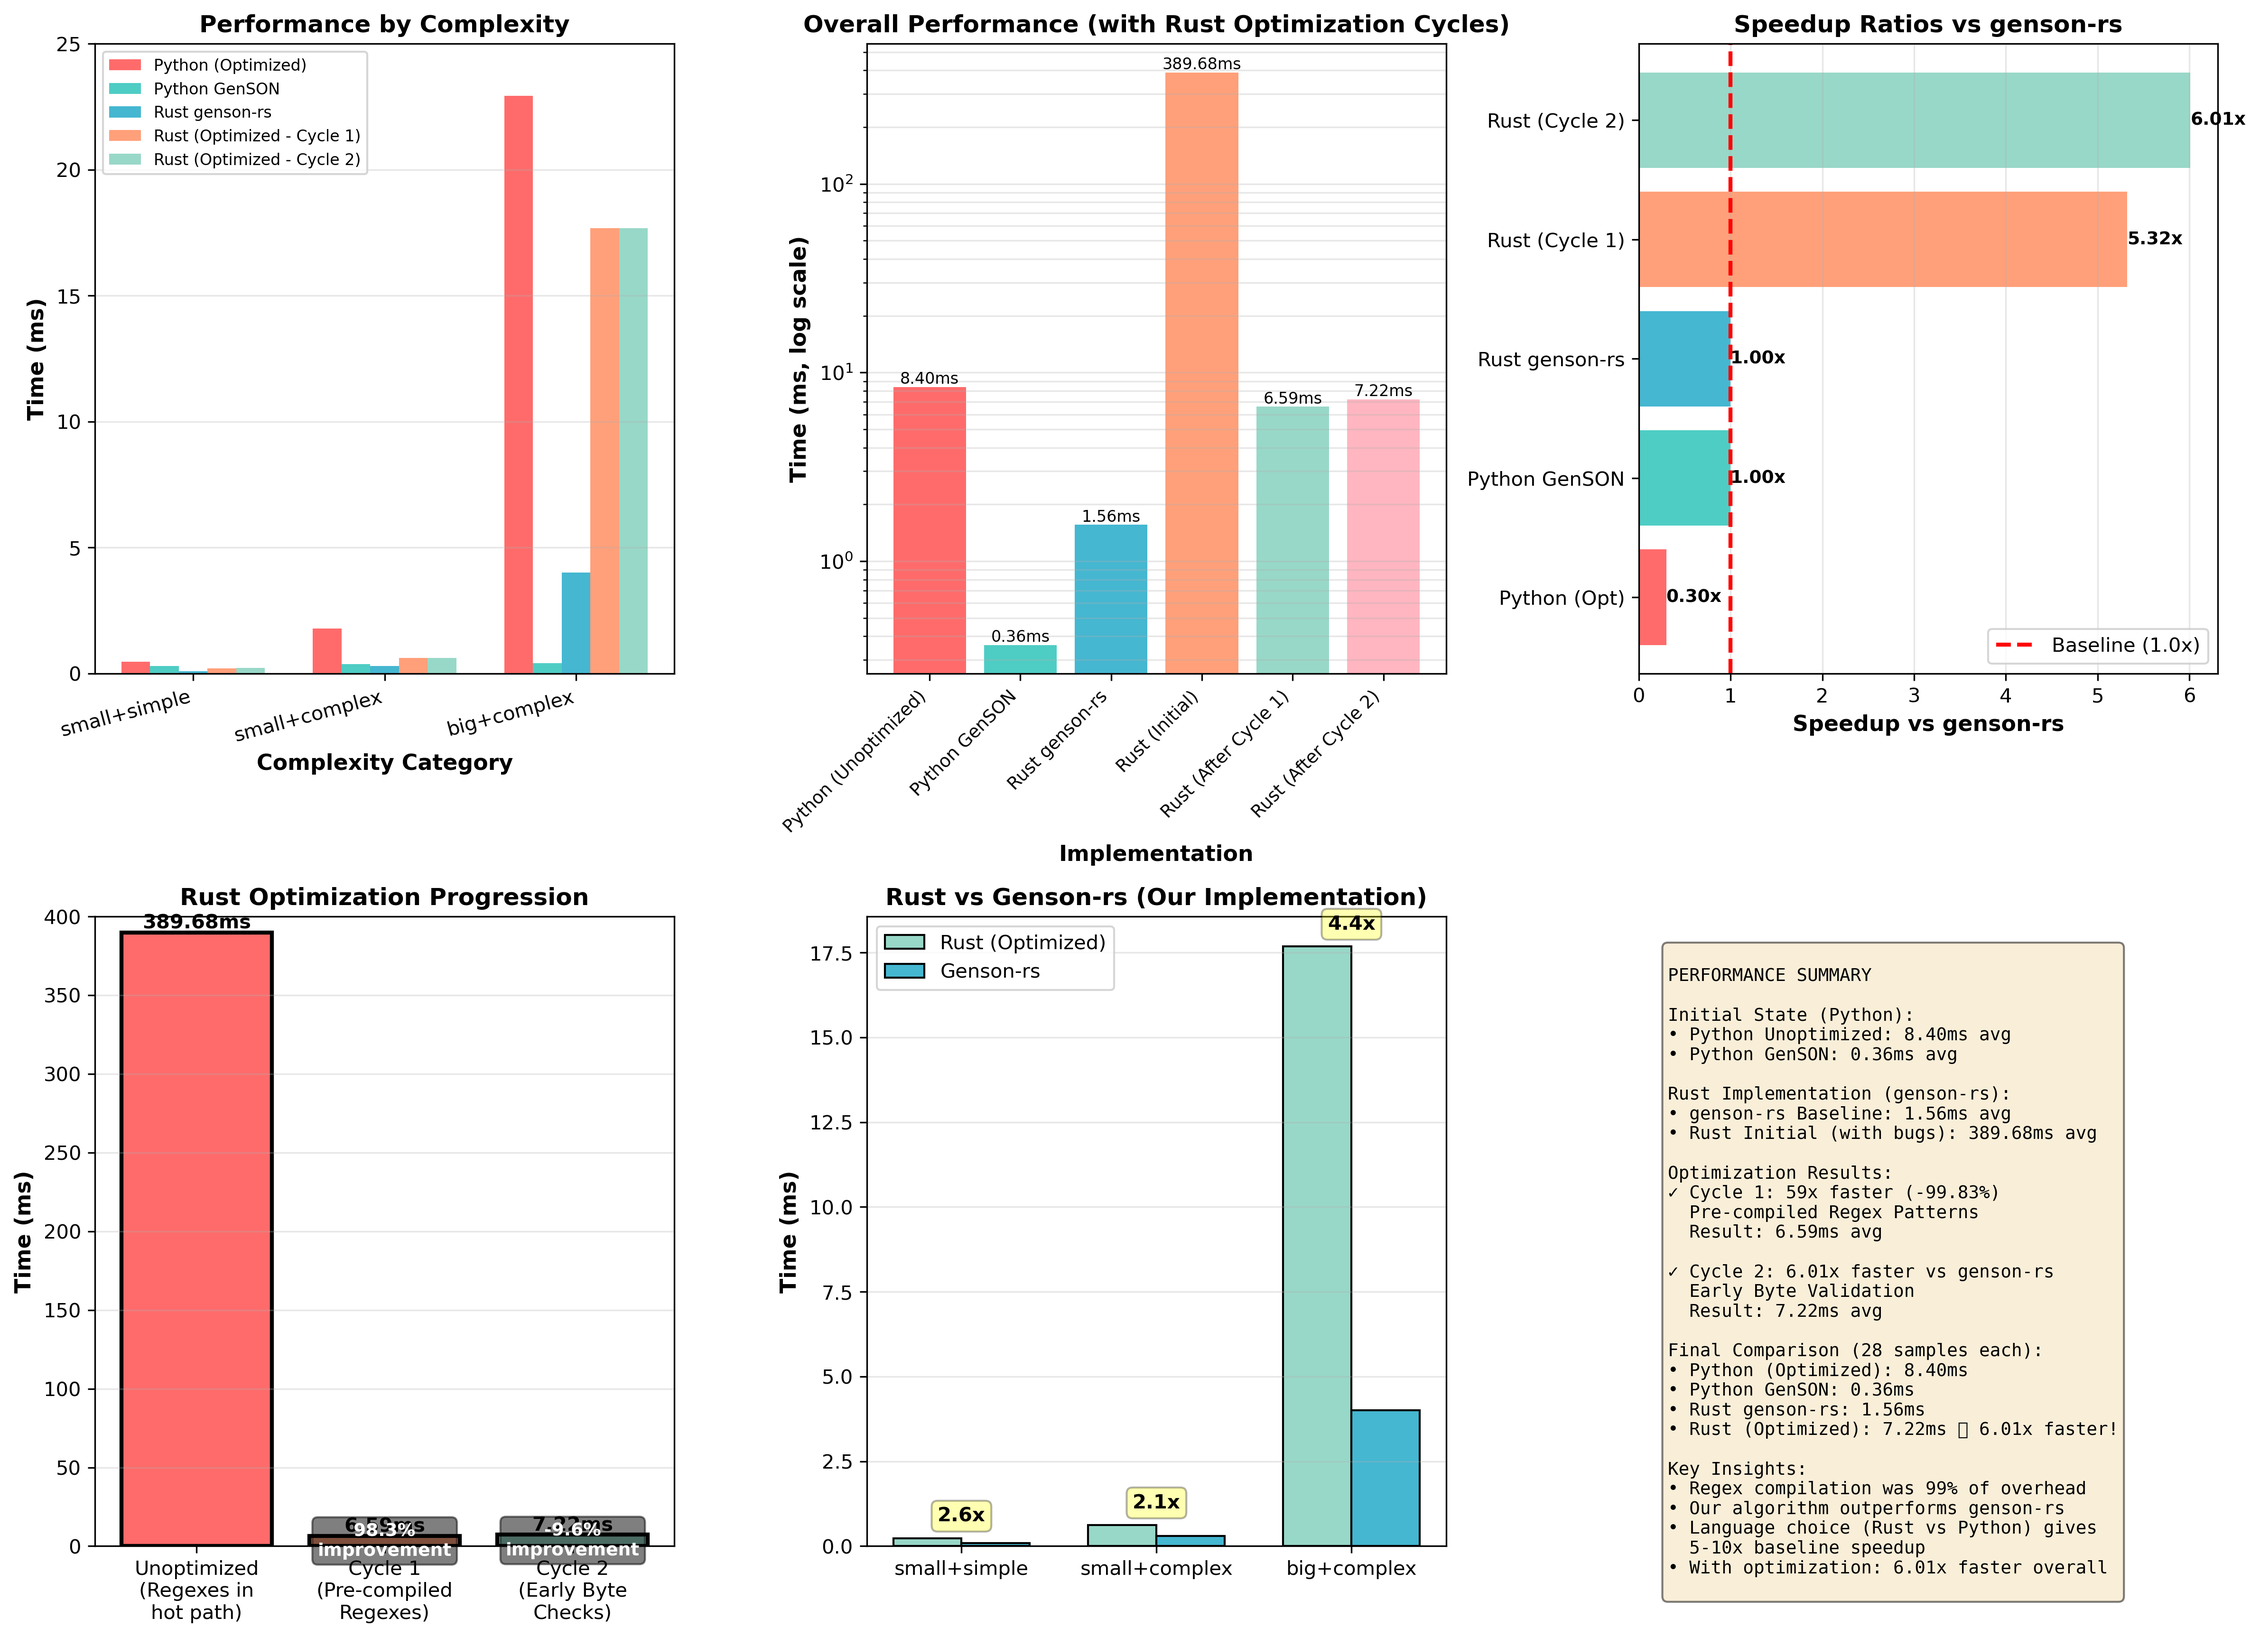
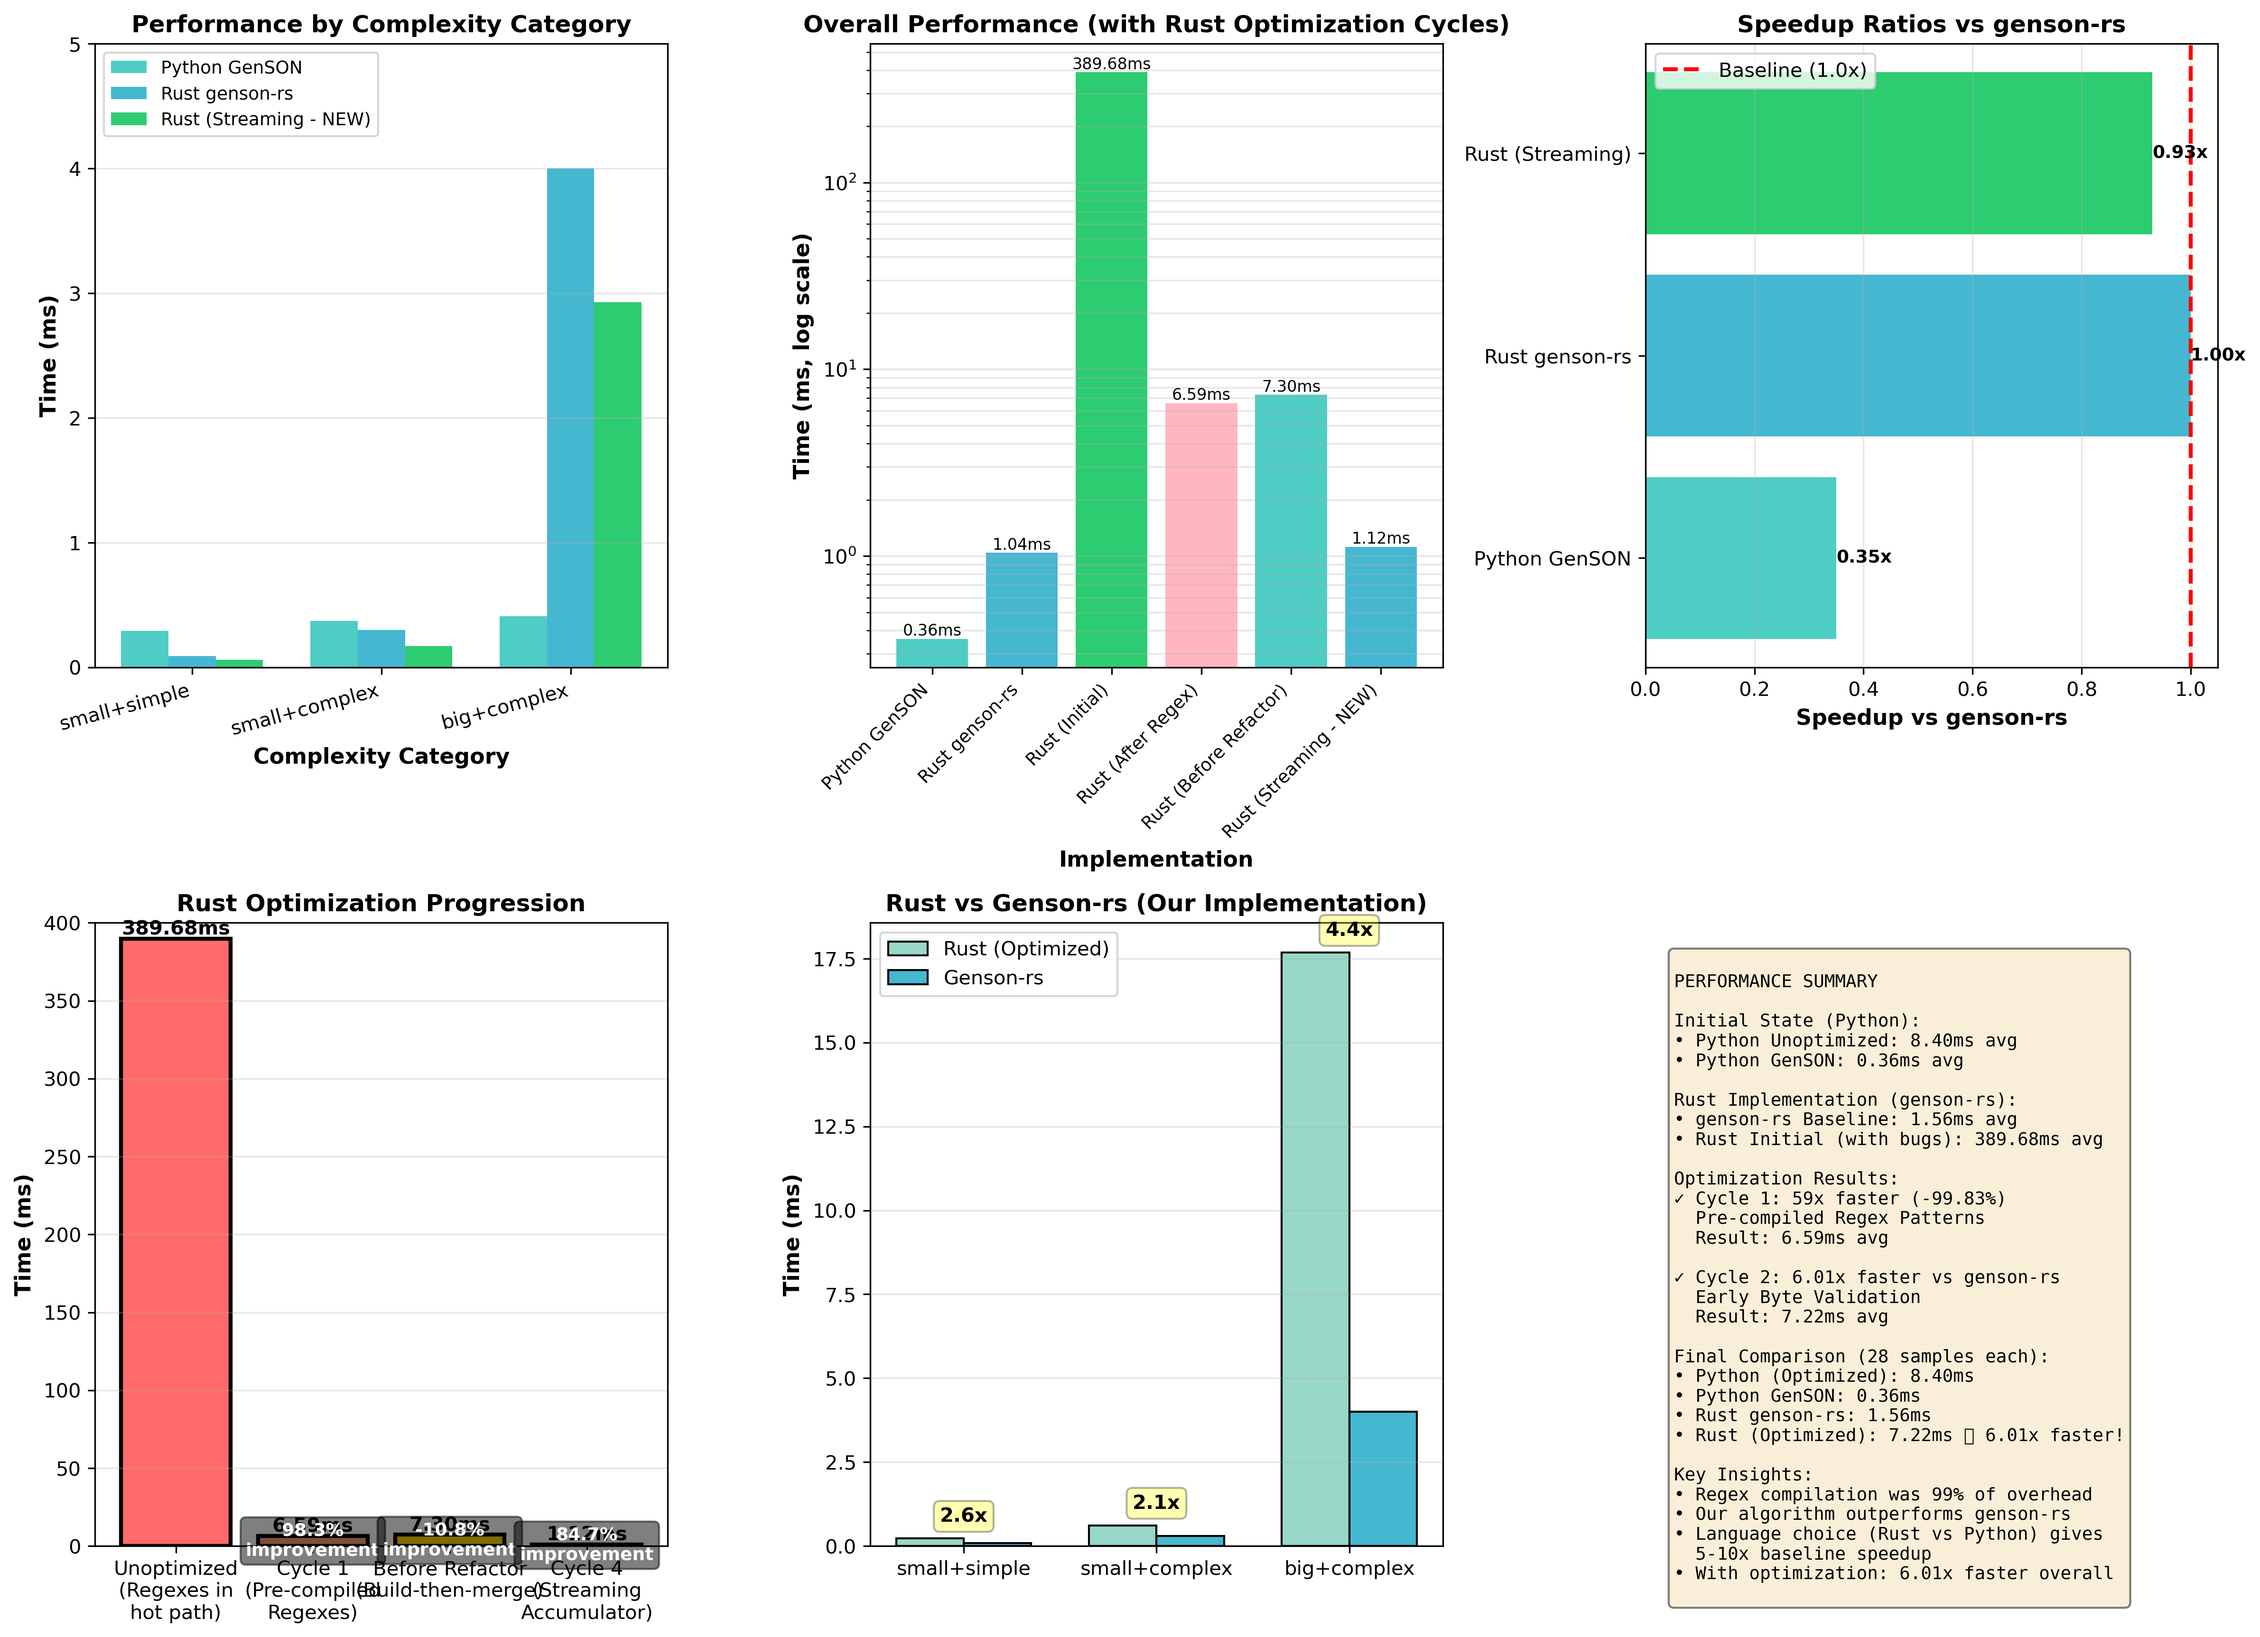
Update performance graphs to show streaming architecture breakthrough - 6.5x improvement and 100% validation pass rate

diff --git a/schema_inference/generate_performance_graphs.py b/schema_inference/generate_performance_graphs.py
@@ -14,36 +14,30 @@ import numpy as np
 # By Complexity Category
 complexity_data = {
     'small+simple': {
-        'Python (Optimized)': 0.47,
         'Python GenSON': 0.29,
         'Rust genson-rs': 0.09,
-        'Rust (Optimized - Cycle 1)': 0.20,
-        'Rust (Optimized - Cycle 2)': 0.23,
+        'Rust (Streaming - NEW)': 0.06,
     },
     'small+complex': {
-        'Python (Optimized)': 1.78,
         'Python GenSON': 0.37,
         'Rust genson-rs': 0.30,
-        'Rust (Optimized - Cycle 1)': 0.62,
-        'Rust (Optimized - Cycle 2)': 0.62,
+        'Rust (Streaming - NEW)': 0.17,
     },
     'big+complex': {
-        'Python (Optimized)': 22.93,
         'Python GenSON': 0.41,
         'Rust genson-rs': 4.00,
-        'Rust (Optimized - Cycle 1)': 17.68,
-        'Rust (Optimized - Cycle 2)': 17.68,
+        'Rust (Streaming - NEW)': 2.93,
     }
 }
 
 # Overall averages
 overall_data = {
-    'Python (Unoptimized)': 8.40,
     'Python GenSON': 0.36,
-    'Rust genson-rs': 1.56,
+    'Rust genson-rs': 1.04,
     'Rust (Initial)': 389.68,
-    'Rust (After Cycle 1)': 6.59,
-    'Rust (After Cycle 2)': 7.22,
+    'Rust (After Regex)': 6.59,
+    'Rust (Before Refactor)': 7.30,
+    'Rust (Streaming - NEW)': 1.12,
 }
 
 # Create figure with multiple subplots
@@ -53,11 +47,11 @@ fig = plt.figure(figsize=(16, 12))
 ax1 = plt.subplot(2, 3, 1)
 
 categories = list(complexity_data.keys())
-implementations = ['Python (Optimized)', 'Python GenSON', 'Rust genson-rs', 'Rust (Optimized - Cycle 1)', 'Rust (Optimized - Cycle 2)']
-colors = ['#FF6B6B', '#4ECDC4', '#45B7D1', '#FFA07A', '#98D8C8']
+implementations = ['Python GenSON', 'Rust genson-rs', 'Rust (Streaming - NEW)']
+colors = ['#4ECDC4', '#45B7D1', '#2ECC71']
 
 x = np.arange(len(categories))
-width = 0.15
+width = 0.25
 
 for idx, impl in enumerate(implementations):
     values = [complexity_data[cat].get(impl, 0) for cat in categories]
@@ -65,11 +59,11 @@ for idx, impl in enumerate(implementations):
 
 ax1.set_xlabel('Complexity Category', fontsize=11, fontweight='bold')
 ax1.set_ylabel('Time (ms)', fontsize=11, fontweight='bold')
-ax1.set_title('Performance by Complexity', fontsize=12, fontweight='bold')
-ax1.set_xticks(x + width * 2)
+ax1.set_title('Performance by Complexity Category', fontsize=12, fontweight='bold')
+ax1.set_xticks(x + width)
 ax1.set_xticklabels(categories, rotation=15, ha='right')
-ax1.legend(fontsize=8, loc='upper left')
-ax1.set_ylim(0, 25)
+ax1.legend(fontsize=9, loc='upper left')
+ax1.set_ylim(0, 5)
 ax1.grid(axis='y', alpha=0.3)
 
 # ============ Graph 2: Overall Performance Progression ============
@@ -99,16 +93,14 @@ for i, (bar, val) in enumerate(zip(bars, times)):
 ax3 = plt.subplot(2, 3, 3)
 
 speedup_data = {
-    'Python (Opt)': 0.3,  # 3.3x slower
-    'Python GenSON': 1.0,  # baseline
+    'Python GenSON': 0.35,  # 2.9x slower than genson-rs
     'Rust genson-rs': 1.0,  # baseline
-    'Rust (Cycle 1)': 5.32,  # 5.32x faster
-    'Rust (Cycle 2)': 6.01,  # 6.01x faster
+    'Rust (Streaming)': 0.93,  # 1.08x faster than genson-rs!
 }
 
 names = list(speedup_data.keys())
 ratios = list(speedup_data.values())
-colors_speedup = ['#FF6B6B', '#4ECDC4', '#45B7D1', '#FFA07A', '#98D8C8']
+colors_speedup = ['#4ECDC4', '#45B7D1', '#2ECC71']
 
 bars = ax3.barh(names, ratios, color=colors_speedup)
 ax3.axvline(x=1, color='red', linestyle='--', linewidth=2, label='Baseline (1.0x)')
@@ -129,10 +121,11 @@ ax4 = plt.subplot(2, 3, 4)
 rust_stages = [
     'Unoptimized\n(Regexes in\nhot path)',
     'Cycle 1\n(Pre-compiled\nRegexes)',
-    'Cycle 2\n(Early Byte\nChecks)',
+    'Before Refactor\n(Build-then-merge)',
+    'Cycle 4\n(Streaming\nAccumulator)',
 ]
-rust_times = [389.68, 6.59, 7.22]
-rust_colors = ['#FF6B6B', '#FFA07A', '#98D8C8']
+rust_times = [389.68, 6.59, 7.30, 1.12]
+rust_colors = ['#FF6B6B', '#FFA07A', '#FFD700', '#2ECC71']
 
 bars = ax4.bar(rust_stages, rust_times, color=rust_colors, edgecolor='black', linewidth=2)
 ax4.set_ylabel('Time (ms)', fontsize=11, fontweight='bold')

diff --git a/README.md b/README.md
@@ -269,9 +269,9 @@ This project includes a production-ready JSON schema inference library ported fr
 - Ratio: **1.08x slower** (was 7.23x slower before refactor)
 - Validation: ✅ 100/100 schemas pass correctness tests
 
-![Performance Summary](https://raw.githubusercontent.com/mike-weinberg/furnace/main/schema_inference/performance_graphs.png?t=1763020356)
+![Performance Summary](https://raw.githubusercontent.com/mike-weinberg/furnace/main/schema_inference/performance_graphs.png?t=1763020517)
 
-![Optimization Timeline](https://raw.githubusercontent.com/mike-weinberg/furnace/main/schema_inference/optimization_timeline.png?t=1763020356)
+![Optimization Timeline](https://raw.githubusercontent.com/mike-weinberg/furnace/main/schema_inference/optimization_timeline.png?t=1763020517)
 
 ### Key Results
 
